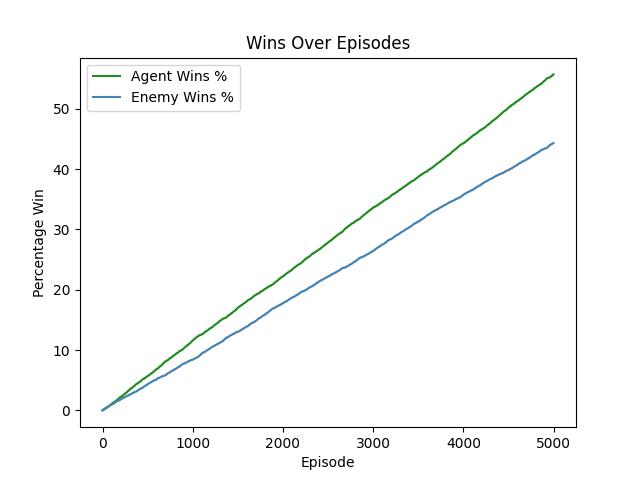
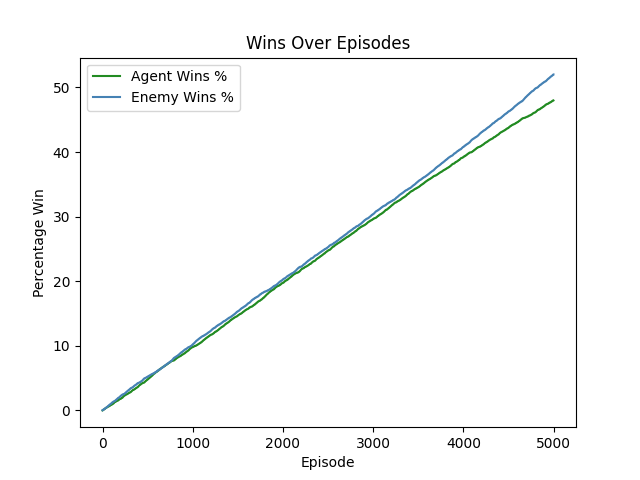
update sarsa model

diff --git a/training/sarsa.py b/training/sarsa.py
@@ -11,9 +11,9 @@ from environment.rewards import states
 from training.utils import draw_wins_plot_over_episodes
 
 
-SAVE_CSV_RESULTS = True     # True in grid search mode, else False.
-SAVE_PLOTS = False            # True when not in grid search mode, else False.
-SELF_PLAY = False
+SAVE_CSV_RESULTS = False     # True in grid search mode, else False.
+SAVE_PLOTS = True            # True when not in grid search mode, else False.
+SELF_PLAY = True
 
 
 PLOTS_DIR = "../results/plots"
@@ -188,14 +188,14 @@ if __name__ == '__main__':
     num_episodes = 5000
 
     # Uncomment this part for grid search.
-    exploration_probabilities = [0.1, 0.2, 0.3]
-    learning_rates = [0.3, 0.4, 0.5]
-    discount_factors = [0.3, 0.5, 0.7, 0.9]
+    # exploration_probabilities = [0.1, 0.2, 0.3]
+    # learning_rates = [0.3, 0.4, 0.5]
+    # discount_factors = [0.3, 0.5, 0.7, 0.9]
 
     # The best configuration.
-    # exploration_probabilities = [0.2]
-    # learning_rates = [0.3]
-    # discount_factors = [0.7]
+    exploration_probabilities = [0.2]
+    learning_rates = [0.4]
+    discount_factors = [0.3]
 
     best_percentage_win_agent = 0
 

diff --git a/test/sarsa.py b/test/sarsa.py
@@ -136,12 +136,12 @@ if __name__ == '__main__':
 
     mode = 'S_SELF-VS-RANDOM'
 
-    for i in tqdm(range(0, 10000), desc='Game progress'):
+    for i in tqdm(range(0, 5000), desc='Game progress'):
         win_agent = execute(mode)
         if win_agent:
             num_wins_agent += 1
 
-    percentage_win_agent = (num_wins_agent / 10000) * 100
+    percentage_win_agent = (num_wins_agent / 5000) * 100
     print(f'\nMode: {mode}')
     print(f'Percentage win agent: {percentage_win_agent}')
     print(f'Percentage win enemy: {100 - percentage_win_agent}')

diff --git a/training/utils.py b/training/utils.py
@@ -16,9 +16,8 @@ def draw_wins_plot_over_episodes(num_of_episodes: int, agent_wins: list, enemy_w
     ax.set_title('Wins Over Episodes')
     ax.set_xlabel('Episode')
     ax.set_ylabel('Percentage Win')
-    ax.legend()
+    ax.legend(loc='upper left')
 
-    if not self_play:
-        ax.set_ylim(0, 60)
+    # ax.set_ylim(0, 60)
 
     plt.savefig(path)
